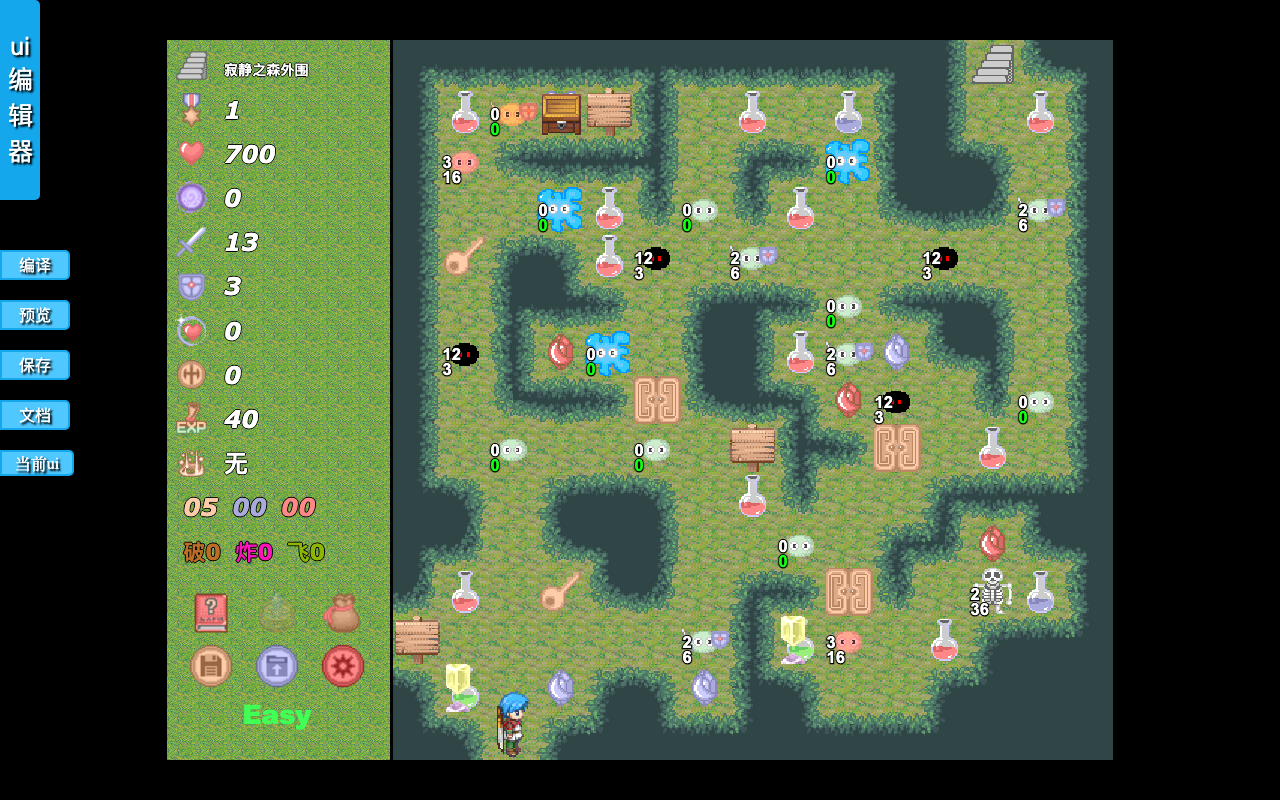
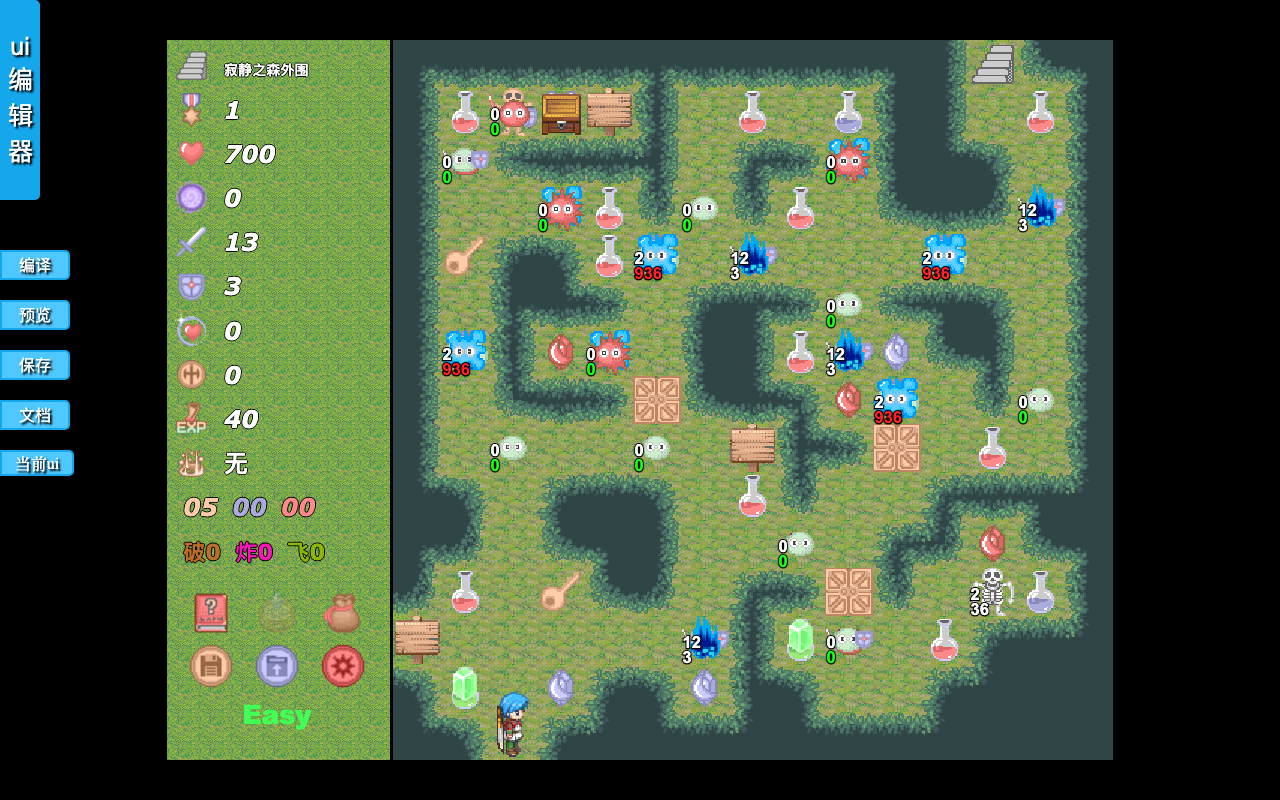
fix: 彻底修正黄门row 4、生命水晶精准切片、幽林鬼火深蓝火焰及原版全套怪兽贴图

diff --git a/_analysis/_ybfh-mota/project/floors/MT1.js b/_analysis/_ybfh-mota/project/floors/MT1.js
@@ -360,7 +360,7 @@ main.floors.MT1=
         [
             17,
             31,
-            210,
+            211,
             38,
             129,
             17,
@@ -376,7 +376,7 @@ main.floors.MT1=
         ],
         [
             17,
-            206,
+            210,
             17,
             17,
             17,
@@ -405,7 +405,7 @@ main.floors.MT1=
             17,
             17,
             17,
-            205,
+            203,
             17
         ],
         [
@@ -414,13 +414,13 @@ main.floors.MT1=
             17,
             17,
             31,
-            203,
-            0,
-            205,
-            0,
-            0,
+            204,
             0,
             203,
+            0,
+            0,
+            0,
+            204,
             0,
             0,
             17
@@ -444,7 +444,7 @@ main.floors.MT1=
         ],
         [
             17,
-            203,
+            204,
             17,
             27,
             202,
@@ -452,7 +452,7 @@ main.floors.MT1=
             17,
             17,
             31,
-            205,
+            203,
             28,
             17,
             17,
@@ -470,7 +470,7 @@ main.floors.MT1=
             17,
             17,
             27,
-            203,
+            204,
             0,
             17,
             201,
@@ -551,10 +551,10 @@ main.floors.MT1=
             0,
             0,
             0,
-            205,
+            203,
             17,
             33,
-            206,
+            210,
             0,
             31,
             17,

diff --git a/tools/build_perfect_mt1.py b/tools/build_perfect_mt1.py
@@ -93,16 +93,17 @@ shutil.copyfile(hero_src, hero_dest)
 print(" -> 主角行走图已更新为贾斯汀 (128x192)")
 
 # -------------------------------------------------------------
-# 3. 替换黄门为原版 Event01-Door04.png
+# 3. 替换黄门为原版 Event01-Door04.png (闭合木门，animates.png row 4)
 # -------------------------------------------------------------
 print("\n[3/7] 正在更新黄门开门动画帧...")
 anim_path = os.path.join(MOTA_DIR, 'project', 'materials', 'animates.png')
 anim_img = Image.open(anim_path).convert('RGBA')
 door_src = Image.open(os.path.join(RX_GFX_DIR, 'Characters', 'Event01-Door04.png')).convert('RGBA')
 door_row0 = door_src.crop((0, 0, 128, 32))
-anim_img.paste(door_row0, (0, 0), door_row0)
+# yellowDoor 在 icons.js 中定义为 row 4 (y = 4 * 32 = 128)
+anim_img.paste(door_row0, (0, 4 * 32), door_row0)
 anim_img.save(anim_path)
-print(" -> animates.png 第 0 行已更新为原版黄木门开门帧")
+print(" -> animates.png 第 4 行已更新为原版 Event01-Door04 闭合木门开门帧 (yellowDoor)")
 
 # -------------------------------------------------------------
 # 4. 替换 items.png 中的宝箱、红/蓝宝石碎片、血瓶、生命上限
@@ -135,12 +136,52 @@ items_img.paste(potion_100, (0, 21 * 32), potion_100)
 print(" -> items.png row 20, 21 已填入原版 103-item03 恢复药水 (redPotion, bluePotion)")
 
 # 4.4 生命上限 (Item01-Gem05.png) -> 替换 row 22 (greenPotion, ID 33)
+# 原版 Map007 的生命上限事件使用 dir=4, pat=2。在 86x115 的图片中对应切片 (43, 29, 65, 58)
 maxhp_src = Image.open(os.path.join(RX_GFX_DIR, 'Characters', 'Item01-Gem05.png')).convert('RGBA')
-maxhp_tile = maxhp_src.crop((64, 32, 96, 64))
-items_img.paste(maxhp_tile, (0, 22 * 32), maxhp_tile)
-print(" -> items.png row 22 已填入原版 Item01-Gem05 生命上限晶石 (greenPotion)")
+maxhp_tile = maxhp_src.crop((43, 29, 65, 58))
+maxhp_canvas = Image.new('RGBA', (32, 32), (0, 0, 0, 0))
+maxhp_canvas.paste(maxhp_tile, (5, 2), maxhp_tile)
+items_img.paste(maxhp_canvas, (0, 22 * 32), maxhp_canvas)
+print(" -> items.png row 22 已填入原版 Item01-Gem05 纯净翠绿立体生命上限水晶 (greenPotion)")
 
 items_img.save(items_path)
+
+# -------------------------------------------------------------
+# 4.5 提取并替换 enemys.png 原版怪物行走图
+# -------------------------------------------------------------
+print("\n[4.5/7] 正在更新 enemys.png 怪物材质为原版行走图...")
+enemys_path = os.path.join(MOTA_DIR, 'project', 'materials', 'enemys.png')
+enemys_img = Image.open(enemys_path).convert('RGBA')
+
+# 精准怪物映射:
+# 1. 荷依米 (怪物002): Monster01-01 row 0 (y=0) -> row 0 (greenSlime)
+# 2. 软泥怪 (怪物003): Monster01-04 row 1 (y=32) -> row 1 (redSlime)
+# 3. 幽林鬼火 (怪物005): Monster01-12 row 3 (y=96) -> row 2 (blackSlime, 纯正深蓝火焰!)
+# 4. 水花怪 (怪物004): Monster01-04 row 0 (y=0) -> row 3 (slimelord, 亮蓝水花怪!)
+# 5. 复活死者 (怪物007): Monster02-01 row 0 (y=0) -> row 8 (skeleton, 骷髅兵)
+# 6. 荷依米贵族 (怪物006): Monster01-02 row 0 (y=0) -> row 9 (skeletonWarrior, 荷依米贵族持剑盾!)
+# 7. 强化持盾怪 (怪物008): Monster01-01 row 1 (y=32) -> row 10 (skeletonCaptain, 粉红持盾怪!)
+m_specs = [
+    ('Monster01-01.png', 0, 0, 0),    # greenSlime (row 0): 荷依米
+    ('Monster01-04.png', 32, 0, 1),   # redSlime (row 1): 软泥怪
+    ('Monster01-12.png', 96, 0, 2),   # blackSlime (row 2): 幽林鬼火 (深蓝火焰!)
+    ('Monster01-04.png', 0, 0, 3),    # slimelord (row 3): 蓝色水花怪
+    ('Monster02-01.png', 0, 0, 8),    # skeleton (row 8): 复活的死者 (骷髅兵)
+    ('Monster01-02.png', 0, 0, 9),    # skeletonWarrior (row 9): 荷依米贵族 (剑盾绿史莱姆)
+    ('Monster01-01.png', 32, 0, 10),  # skeletonCaptain (row 10): 粉红持盾怪
+]
+
+for fname, y, x, row_idx in m_specs:
+    im = Image.open(os.path.join(RX_GFX_DIR, 'Characters', fname)).convert('RGBA')
+    t0 = im.crop((x, y, x + 32, y + 32))
+    t1 = im.crop((x + 64 if x + 64 < im.width else x, y, (x + 64 if x + 64 < im.width else x) + 32, y + 32))
+    row_block = Image.new('RGBA', (64, 32), (0, 0, 0, 0))
+    row_block.paste(t0, (0, 0), t0)
+    row_block.paste(t1, (32, 0), t1)
+    enemys_img.paste(row_block, (0, row_idx * 32), row_block)
+
+enemys_img.save(enemys_path)
+print(" -> enemys.png 关键怪物贴图已全量更新为原版行走图！")
 
 # -------------------------------------------------------------
 # 5. 生成 15x15 楼层脚本 MT1.js
@@ -170,15 +211,15 @@ for y in range(map_h):
         row.append(0 if passable else 17)
     maze.append(row)
 
-# 怪物 ID 映射
+# 真实怪物与道具映射
 MONSTER_MAP = {
-    '怪物002': 201, # 荷依米
-    '怪物003': 202, # 软泥怪
-    '怪物004': 203, # 幽林鬼火
-    '怪物005': 205, # 荷依米战士
-    '怪物006': 206, # 倍荷玛
-    '怪物007': 209, # 复活的死者
-    '怪物008': 210, # 倍荷玛战士
+    '怪物002': 201, # greenSlime: 荷依米 (绿色史莱姆)
+    '怪物003': 202, # redSlime: 软泥怪 (粉红史莱姆)
+    '怪物005': 203, # blackSlime: 幽林鬼火 (深蓝火焰!)
+    '怪物004': 204, # slimelord: 蓝色水花怪
+    '怪物007': 209, # skeleton: 复活的死者 (骷髅兵)
+    '怪物006': 210, # skeletonWarrior: 荷依米贵族 (剑盾绿史莱姆)
+    '怪物008': 211, # skeletonCaptain: 粉红持盾怪
 }
 
 mota_events = {}
